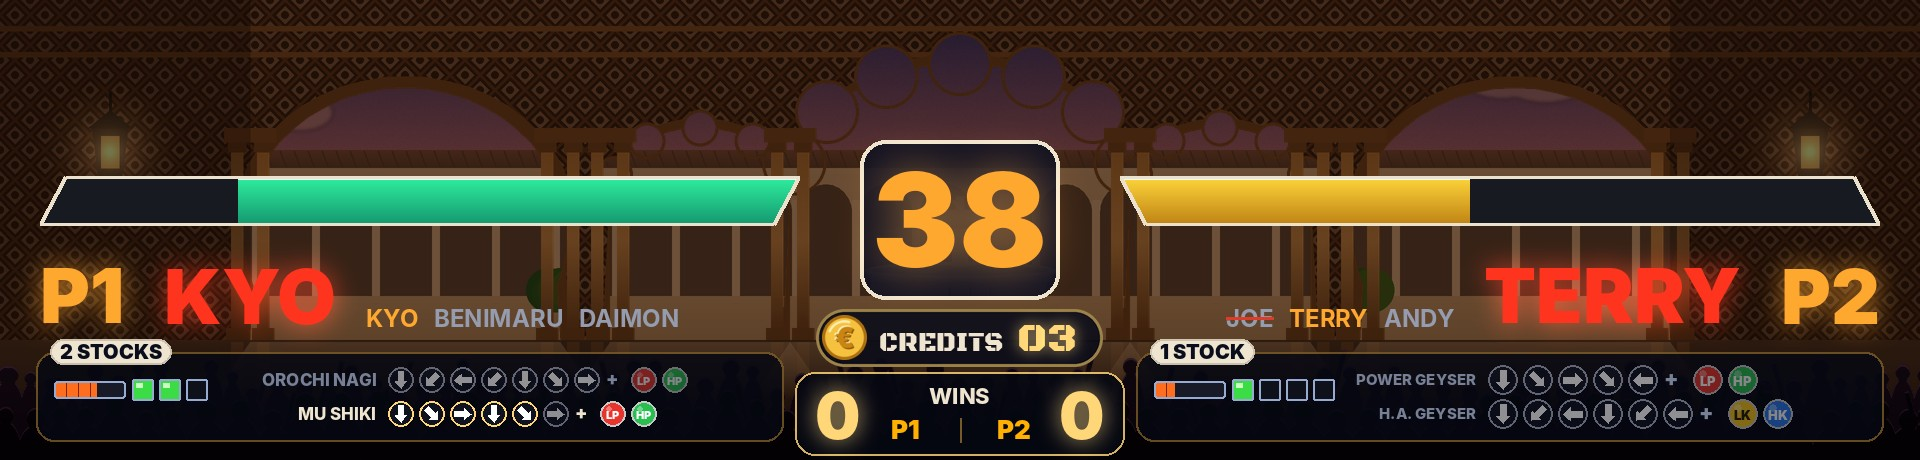
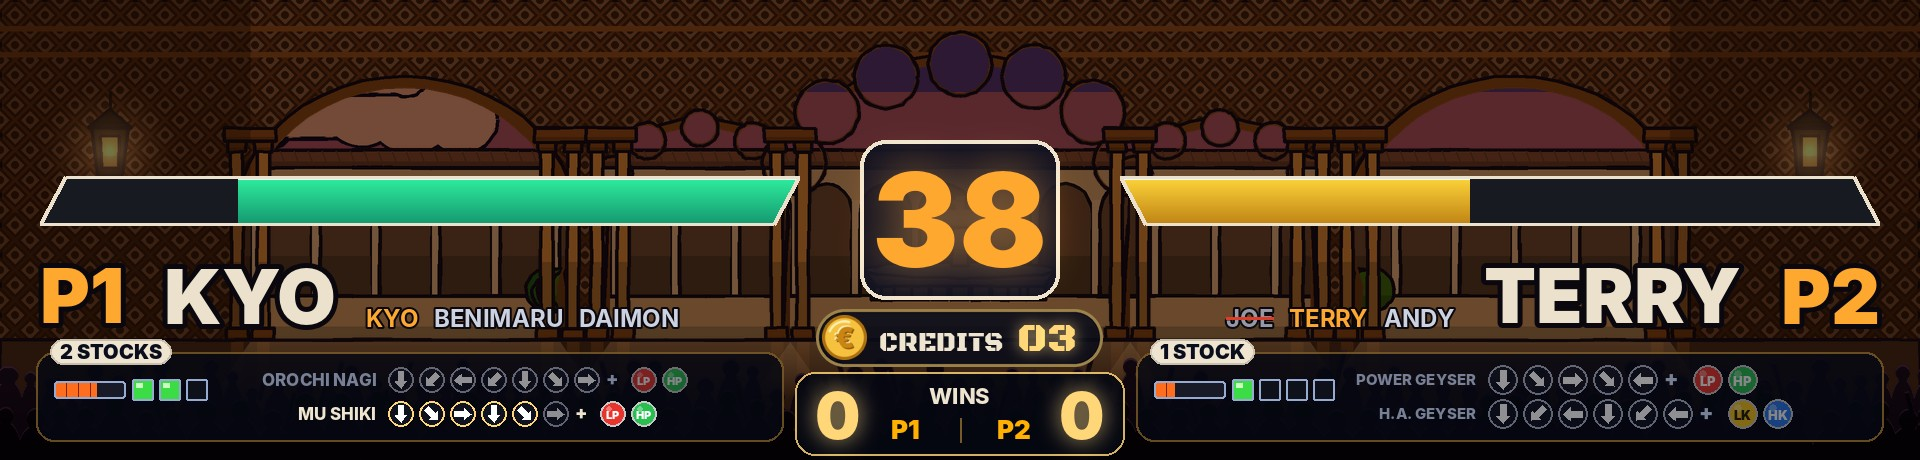
1.33.0 test 4: the fighters' names in cream with a black outline
Seb could not read the names over the stages: red letters with a red glow melted
into the warm backdrops. Of six mockups rendered by the engine he picked the
cream letters with a thick black outline (C).

- text() takes an outline colour and a stroke width; the width given stays that of
  the letters, the outline overflows into the padding.
- draw_fight: the fighter's name in cream outlined in black, P1, P2 and CPU in amber
  with the same outline, no glow (name_text, tag_text).
- The teams of the King of Fighters games, beside the name or under it against the
  CPU, take a thin outline in a lighter grey, the one fighting in amber, the beaten
  ones duller and struck (team_text, shared by draw_team_line and draw_team).
- Every fighting game goes through draw_fight, so Neo Geo, Capcom and Cave fights
  all take it.
- CHANGELOG, README (EN, FR), the two README pictures of KOF '98 regenerated.

Checked: names_test (10), kof_screens_test (31), moves_test (82), kof_go_test (47),
kof98_stages_test, capture_test, fight_stage_test, kof_rounds_test, kof_names_test,
cps_fight_test, fighters_test, tag_team_test, xmcota_test, ko_audit_test,
p2_fight_test, ra_fast_test.

Claude-Session: https://claude.ai/code/session_01UHMmGB2iQAKSvNdTFigVJ4

diff --git a/dmd/hd.py b/dmd/hd.py
@@ -47,7 +47,12 @@ from .hd_mslug import MetalSlugScene, family
 from .i18n import tr
 
 AMBER, RED, CREAM, LINE = (255, 168, 48), (255, 52, 30), (235, 225, 205), (168, 112, 30)
-GREY, DIM = (150, 150, 165), (90, 90, 100)
+GREY = (150, 150, 165)
+# the fighters' names (1.33, Seb): cream letters with a black outline, P1, P2 and the teams outlined too, no glow. They
+# were red with a red glow, which melted into the warm stages. / Les noms des combattants : lettres crème à contour noir,
+# P1, P2 et les équipes aussi, sans lueur. Ils étaient rouges à lueur rouge, fondus dans les décors chauds.
+INK = (10, 8, 14)
+TEAM_GREY, TEAM_DONE = (205, 210, 225), (150, 152, 165)
 MAX_INK = (70, 36, 6)
 BARS = {"g": ((48, 240, 160), (20, 150, 110)), "y": ((255, 214, 60), (190, 130, 20)), "r": ((255, 70, 50), (160, 30, 20))}
 FONT_FILES = {"black": "Inter-Black.otf", "xbold": "Inter-ExtraBold.otf", "bold": "Inter-Bold.otf",
@@ -181,9 +186,10 @@ class HDRenderer:
             self.fonts[k] = f
         return f
 
-    def text(self, text, key, size, color, glow=0.5):
-        """Texte prêt à poser (surface, lueur), gardé en cache."""
-        ck = (text, key, size, color, glow)
+    def text(self, text, key, size, color, glow=0.5, outline=None, stroke=0):
+        """Texte prêt à poser (surface, lueur), gardé en cache. outline et stroke (1.33) : un contour d'une autre
+        couleur, de stroke pixels, autour des lettres ; la largeur donnée reste celle des lettres."""
+        ck = (text, key, size, color, glow, outline, stroke)
         hit = self.cache.get(ck)
         if hit is not None:
             self.cache.move_to_end(ck)
@@ -191,11 +197,19 @@ class HDRenderer:
         f = self.font(key, size)
         l, t, r, b = f.getbbox(text) if text else (0, 0, 1, 1)
         pad = int(size * 0.45) + 4 if glow else 2
+        stroke = int(stroke) if outline is not None else 0
+        pad = max(pad, stroke + 2)
         w, h = max(1, r - l) + 2 * pad, max(1, b - t) + 2 * pad
-        alpha = Image.new("L", (w, h), 0)
-        ImageDraw.Draw(alpha).text((pad - l, pad - t), text, font=f, fill=255)
-        img = Image.new("RGBA", (w, h), tuple(color) + (0,))
-        img.putalpha(alpha)
+        if stroke > 0:                                            # the outline under the letters / le contour sous les lettres
+            img = Image.new("RGBA", (w, h), (0, 0, 0, 0))
+            ImageDraw.Draw(img).text((pad - l, pad - t), text, font=f, fill=tuple(color) + (255,), stroke_width=stroke,
+                                     stroke_fill=tuple(outline) + (255,))
+            alpha = img.getchannel("A")
+        else:
+            alpha = Image.new("L", (w, h), 0)
+            ImageDraw.Draw(alpha).text((pad - l, pad - t), text, font=f, fill=255)
+            img = Image.new("RGBA", (w, h), tuple(color) + (0,))
+            img.putalpha(alpha)
         out = {"surf": self._surf(img), "w": r - l, "h": b - t, "pad": pad, "key": ck}
         if glow:
             gl = Image.new("RGB", (w, h))
@@ -749,22 +763,22 @@ class HDRenderer:
             # sous le nom d'un humain, le panneau des coups désespérés, l'équipe montée à côté du nom, en petit
             panel = moves is not None and human and self.fight.panel_on(side)
             tsize = S(76)
-            tw = self.text(tag, "black", tsize, AMBER)["w"]
+            tw = self.tag_text(tag, tsize)["w"]
             space = room - tw - S(40)
             if panel and team:                    # the name leaves the team its smallest size / le nom laisse la place
                 space = min(space, int(cx - S(176)) - S(40) - tw - S(40) - S(30) - self._team_w(team, S(16)))
             nsize = self.fit_size(str(name), "black", S(76), space, S(30)) if name else tsize
             if side == "p1":
-                self.put(screen, self.text(tag, "black", tsize, AMBER), S(40), S(268))
+                self.put(screen, self.tag_text(tag, tsize), S(40), S(268))
                 if name:
-                    self.put(screen, self.text(str(name), "black", nsize, RED), S(40) + tw + S(40), S(268 + (76 - nsize / self.s) * 0.8))
+                    self.put(screen, self.name_text(str(name), nsize), S(40) + tw + S(40), S(268 + (76 - nsize / self.s) * 0.8))
             else:
-                self.put(screen, self.text(tag, "black", tsize, AMBER), W - S(40), S(268), "right")
+                self.put(screen, self.tag_text(tag, tsize), W - S(40), S(268), "right")
                 if name:
-                    self.put(screen, self.text(str(name), "black", nsize, RED), W - S(40) - tw - S(40),
+                    self.put(screen, self.name_text(str(name), nsize), W - S(40) - tw - S(40),
                              S(268 + (76 - nsize / self.s) * 0.8), "right")
             if panel:
-                nw = self.text(str(name), "black", nsize, RED)["w"] if name else 0
+                nw = self.name_text(str(name), nsize)["w"] if name else 0
                 if team:
                     if side == "p1":
                         self.draw_team_line(screen, team, S(40) + tw + S(40) + nw + S(30), int(cx - S(176)), S(318), side)
@@ -797,6 +811,20 @@ class HDRenderer:
             # two humans in a game of teams: the matches each one won, under the credits (1.32, Seb, as in Puzzle Bobble)
             # deux humains dans un jeu d'équipes : les matchs gagnés par chacun, sous les crédits
             draw_wins(self, screen, f.moves, f.wins["p1"], f.wins["p2"], cx, S(414), now, f.win_pop)
+
+    def name_text(self, name, size):
+        """A fighter's name: cream, outlined in black (1.33). / Le nom d'un combattant : crème, contour noir."""
+        return self.text(name, "black", size, CREAM, glow=0, outline=INK, stroke=max(2, self.S(5)))
+
+    def tag_text(self, tag, size):
+        """P1, P2 or CPU beside the name: amber, outlined. / P1, P2 ou CPU à côté du nom : ambre, contour noir."""
+        return self.text(tag, "black", size, AMBER, glow=0, outline=INK, stroke=max(2, self.S(5)))
+
+    def team_text(self, name, size, state):
+        """A team member: the one fighting in amber, the others light grey, the beaten ones duller, all outlined.
+        / Un équipier : celui qui se bat en ambre, les autres gris clair, les battus plus ternes, tous à contour."""
+        col = AMBER if state == "now" else (TEAM_DONE if state == "done" else TEAM_GREY)
+        return self.text(name, "bold", size, col, glow=0, outline=INK, stroke=max(1, self.S(2)))
 
     def draw_rounds(self, screen, vals, x1, x2, now):
         """The rounds won, gold stars under the inner end of each health bar (Street Fighter II, Alpha), the last one
@@ -878,7 +906,7 @@ class HDRenderer:
         return g if isinstance(g, dict) else {}
 
     def _team_w(self, team, size):
-        return sum(self.text(n, "bold", size, GREY, glow=0)["w"] for n, _ in team) + self.S(16) * (len(team) - 1)
+        return sum(self.team_text(n, size, st)["w"] for n, st in team) + self.S(16) * (len(team) - 1)
 
     def draw_team_line(self, screen, team, start, end, y, side):
         """The team on the name's line, small (1.32): the one fighting in amber, the beaten ones struck. start is beside
@@ -892,7 +920,7 @@ class HDRenderer:
         items = team if side == "p1" else list(reversed(team))
         x = start
         for n, state in items:
-            t = self.text(n, "bold", size, AMBER if state == "now" else (150, 156, 175), glow=0)
+            t = self.team_text(n, size, state)
             if side == "p1":
                 self.put(screen, t, x, y, "left", "middle")
                 x0, x1 = x, x + t["w"]
@@ -956,15 +984,14 @@ class HDRenderer:
         size = self.S(30)
         gap = self.S(30)
         while size > self.S(16):
-            total = sum(self.text(n, "bold", size, GREY, glow=0)["w"] for n, _ in team) + gap * (len(team) - 1)
+            total = sum(self.team_text(n, size, st)["w"] for n, st in team) + gap * (len(team) - 1)
             if total <= room:
                 break
             size = int(size * 0.9)
         items = team if side == "p1" else list(reversed(team))
         cx = x
         for n, state in items:
-            col = AMBER if state == "now" else (DIM if state == "done" else GREY)
-            t = self.text(n, "bold", size, col, glow=0)
+            t = self.team_text(n, size, state)
             if side == "p1":
                 self.put(screen, t, cx, y)
                 left = cx

diff --git a/CHANGELOG.md b/CHANGELOG.md
@@ -18,6 +18,9 @@ La version la plus récente en premier. Chaque version est en anglais, puis en f
 - During a fighting game, every change of every value read is written with its time to `runtime\captures\<game>-<date>.log`, the stick and buttons at the time they were read, a few hundred KB for a match. `"capture"` in `config.json`: `"fights"` (the default), `"all"` or `"off"`. The log says where the capture went and how many changes it holds.
 - `tools/replay_capture.py` replays a capture through the fight engine, with the game's file as it is now, and prints what the HD screen would have shown, second by second: the select screens, ROUND n, FIGHT !, K.O., WIN, TIME UP, VICTOIRE, the next fighter. One match per game is enough to see what comes at the wrong time, fix the game's file and keep the capture as a test.
 
+**The fighters' names in cream with a black outline** (test 4, Seb: the names were hard to read over the stages)
+- On the fight screen of every fighting game (Neo Geo, Capcom, Cave), the fighter's name is now written in cream letters with a thick black outline, and P1, P2 and CPU in amber with the same outline, no glow. The names were red with a red glow, which melted into the warm stages. The teams of the King of Fighters games (beside the name, or under it against the CPU) take a thin outline too, in a lighter grey, the one fighting in amber, the beaten ones duller and struck.
+
 **Version**
 - 1.33.0 in `dmd/app.py` and the MAME plugin.
 
@@ -33,6 +36,9 @@ La version la plus récente en premier. Chaque version est en anglais, puis en f
 **Les captures des jeux de combat, pour régler chaque jeu avec un match** (test 3, Seb : les corrections de The King of Fighters '98 à porter sur tous les jeux de combat)
 - Pendant un jeu de combat, chaque changement de chaque valeur lue est écrit avec son heure dans `runtime\captures\<jeu>-<date>.log`, le stick et les boutons à l'heure où ils ont été lus, quelques centaines de Ko par match. `"capture"` dans `config.json` : `"fights"` (par défaut), `"all"` ou `"off"`. Le journal dit où est allée la capture et combien de changements elle tient.
 - `tools/replay_capture.py` rejoue une capture dans le moteur de combat, avec le fichier du jeu tel qu'il est maintenant, et écrit ce que l'écran HD aurait montré, seconde par seconde : les écrans de sélection, ROUND n, FIGHT !, K.O., WIN, TIME UP, VICTOIRE, le combattant suivant. Un match par jeu suffit pour voir ce qui vient au mauvais moment, corriger le fichier du jeu et garder la capture comme test.
+
+**Les noms des combattants en crème à contour noir** (test 4, Seb : les noms se lisaient mal sur les décors)
+- Sur l'écran de combat de tous les jeux de combat (Neo Geo, Capcom, Cave), le nom du combattant s'écrit maintenant en lettres crème cernées d'un trait noir épais, et P1, P2 et CPU en ambre avec le même trait, sans lueur. Les noms étaient rouges à lueur rouge, fondus dans les décors chauds. Les équipes des King of Fighters (à côté du nom, ou dessous face au CPU) prennent aussi un trait fin, en gris plus clair, celui qui se bat en ambre, les battus plus ternes et barrés.
 
 **Version**
 - 1.33.0 dans `dmd/app.py` et le plugin MAME.

diff --git a/README.fr.md b/README.fr.md
@@ -238,7 +238,7 @@ Le logo vient de tes images Clear Logo de LaunchBox. ArcadeDMD trouve le dossier
 - Jeux de combat. En haut le score de chaque joueur, ou CHALLENGER et BEAT BY en match VS. Au milieu les barres de vie, avec une traînée claire qui montre le coup qu'on vient de prendre, et le chrono ou KO. En bas P1, P2 ou CPU avec le combattant en cours, l'équipe complète dans les King of Fighters '96 à 2000 (ceux déjà battus sont barrés), et les crédits comme dans Metal Slug, la pièce au symbole de `config.json` dans sa pastille au bord doré.
 - Les autres jeux. Le logo, le score de chaque joueur, puis en bas l'arme, les vies, les bombes, le temps et les crédits quand ils sont connus.
 - Personne ne joue. Le logo en grand, et INSERT COIN ou les crédits. Dans les jeux de combat, le logo est entre deux monnayeurs (Écran des pièces, section 7).
-- Les décors animés sont un peu assombris, pour que les infos ressortent. `"dim": 30` dans la section `preview` le règle, de 0 (tel que dessiné) à 80 %. Les jeux de combat ont le leur, plus sombre (`"dim_fight": 55`, depuis la 1.32), leurs noms, barres de vie et panneaux passant par-dessus le décor. Un décor clair (un marché au soleil, un port de jour) est assombri davantage tout seul, jusqu'à 80, pour que tous les décors ressortent à peu près aussi sombres sous les noms, les décors de nuit gardent la valeur.
+- Les décors animés sont un peu assombris, pour que les infos ressortent. `"dim": 30` dans la section `preview` le règle, de 0 (tel que dessiné) à 80 %. Les jeux de combat ont le leur, plus sombre (`"dim_fight": 55`, depuis la 1.32), leurs noms, barres de vie et panneaux passant par-dessus le décor. Les noms des combattants s'écrivent en crème à contour noir (depuis la 1.33), P1, P2 et les équipes cernés aussi, pour se lire sur n'importe quel décor. Un décor clair (un marché au soleil, un port de jour) est assombri davantage tout seul, jusqu'à 80, pour que tous les décors ressortent à peu près aussi sombres sous les noms, les décors de nuit gardent la valeur.
 
 La Pixelcade et les dalles ZeDMD gardent la scène en 128 x 32, c'est la taille de leurs LED.
 

diff --git a/README.md b/README.md
@@ -238,7 +238,7 @@ The logo comes from your LaunchBox Clear Logo images. ArcadeDMD finds the Launch
 - Fighting games. At the top, each player's score, or CHALLENGER and BEAT BY in a VS match. In the middle, the health bars, with a light trail showing the hit just taken, and the timer or KO. At the bottom, P1, P2 or CPU with the current fighter, the full team in King of Fighters '96 to 2000 (fighters already beaten are crossed out), and the credits as in Metal Slug, the coin with the symbol of `config.json` in its gold-edged pill.
 - Other games. The logo, each player's score, then at the bottom the weapon, lives, bombs, time and credits when they are known.
 - Nobody playing. A large logo, and INSERT COIN or the credits. In the fighting games, the logo sits between two coin doors (Coin screen, section 7).
-- The animated backdrops are a little darker, so that the information stands out. `"dim": 30` in the `preview` section sets it, from 0 (as drawn) to 80 percent. The fighting games have their own, darker (`"dim_fight": 55`, since 1.32), their names, health bars and panels over the stage. A bright stage (a market in the sun, a harbor by day) is darkened more than that by itself, up to 80, so that every stage comes out about as dark under the names, the stages at night keep the value.
+- The animated backdrops are a little darker, so that the information stands out. `"dim": 30` in the `preview` section sets it, from 0 (as drawn) to 80 percent. The fighting games have their own, darker (`"dim_fight": 55`, since 1.32), their names, health bars and panels over the stage. The fighters' names are written in cream with a black outline (since 1.33), P1, P2 and the teams outlined too, so that they read over any stage. A bright stage (a market in the sun, a harbor by day) is darkened more than that by itself, up to 80, so that every stage comes out about as dark under the names, the stages at night keep the value.
 
 The Pixelcade and ZeDMD panels keep the scene at 128 x 32, which is their LED resolution.
 
